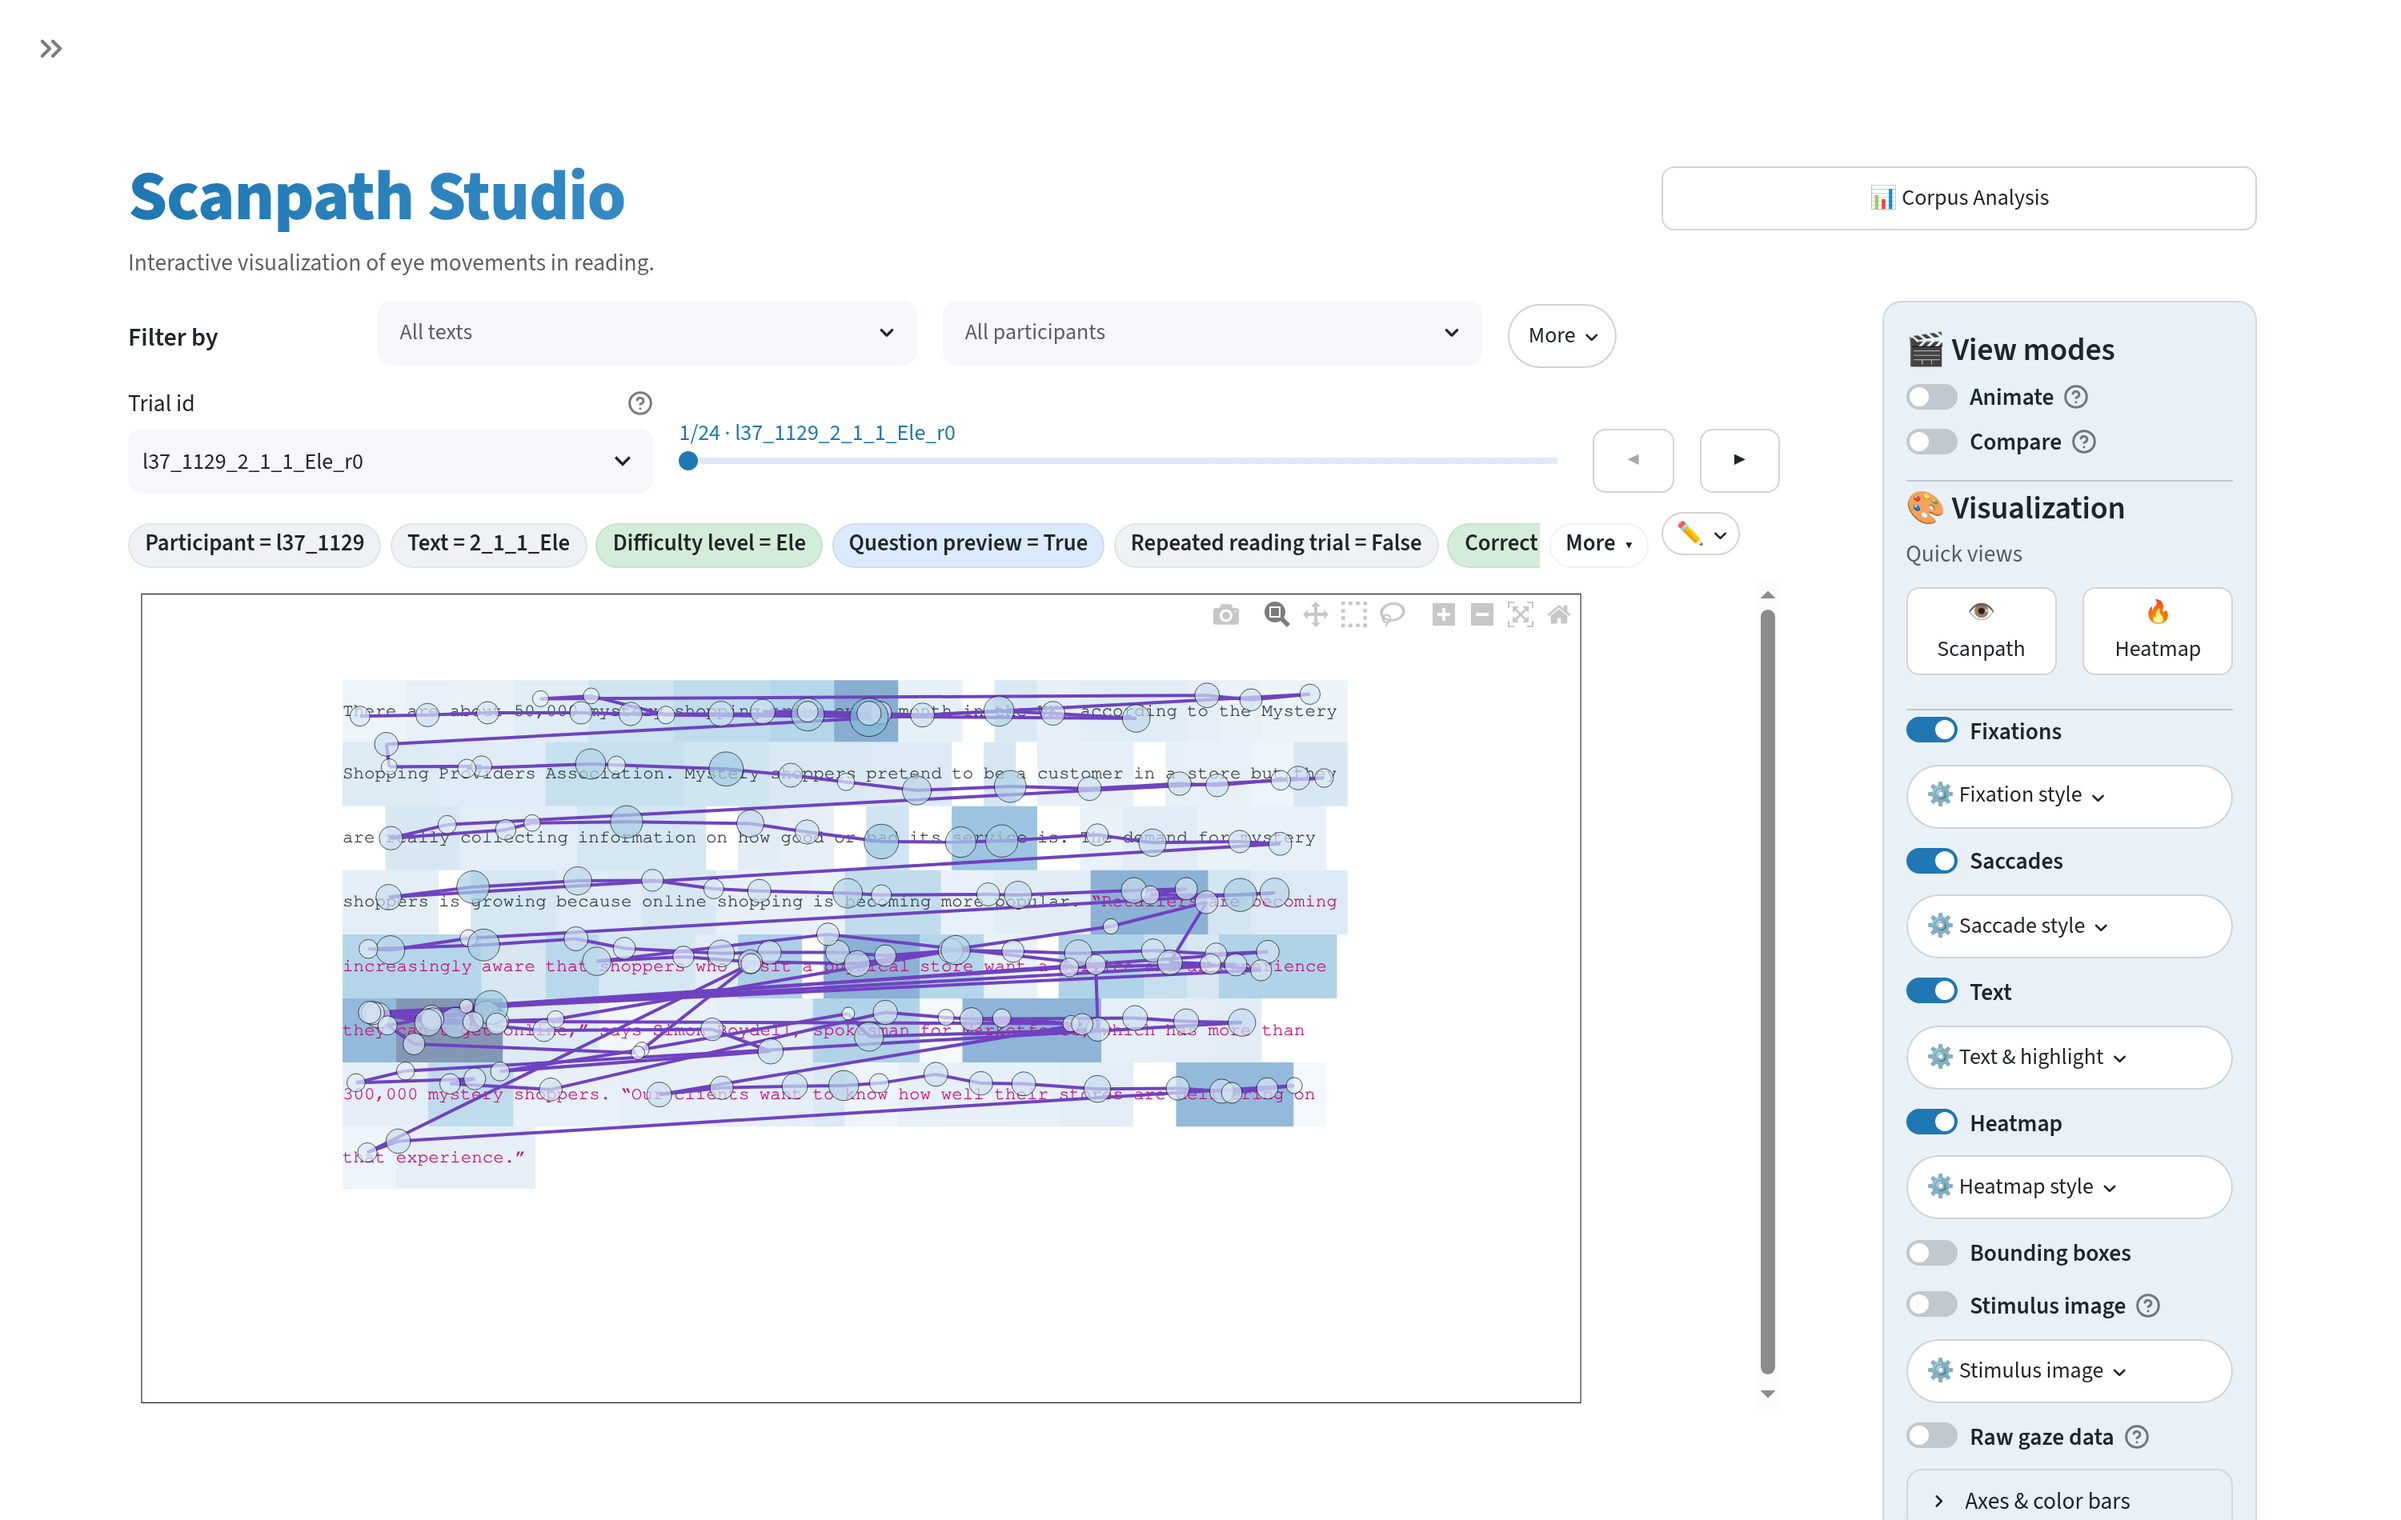
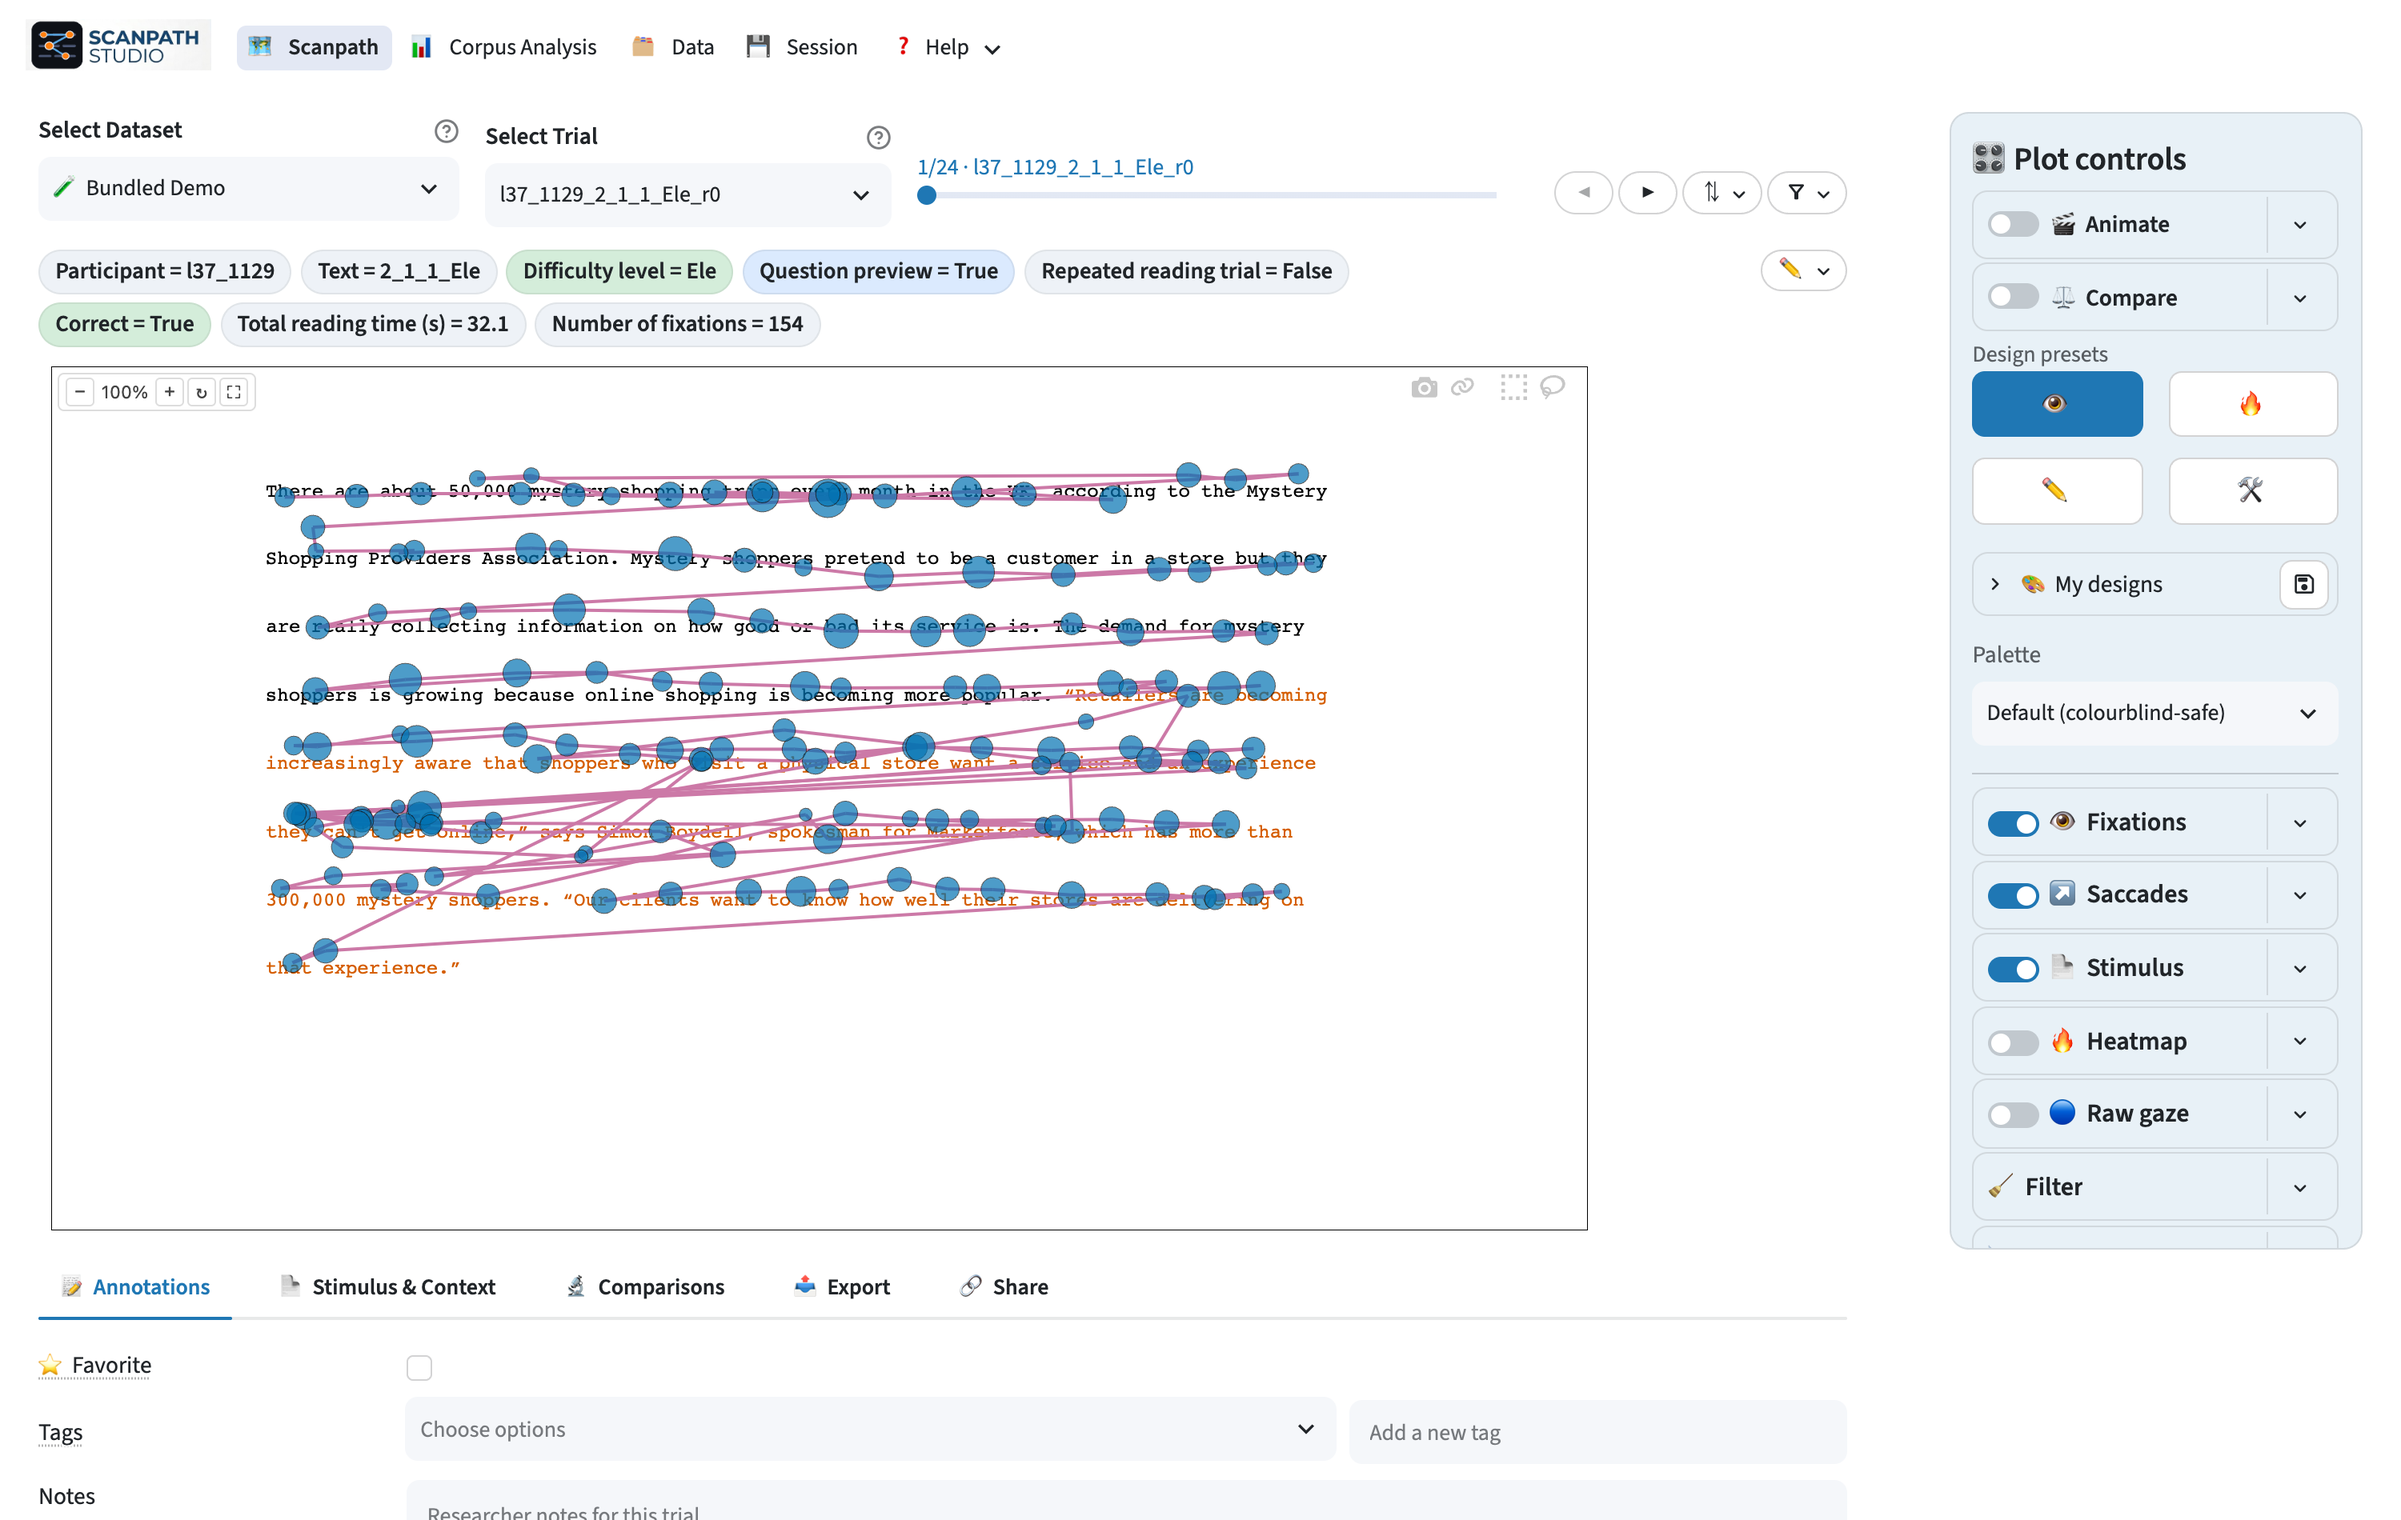
docs: re-capture the app screenshot from the current interface (ENG-70)

diff --git a/CHANGELOG.md b/CHANGELOG.md
@@ -161,7 +161,7 @@ and this project adheres to [Semantic Versioning](https://semver.org/spec/v2.0.0
 - **A `SECURITY.md` says how to report a vulnerability privately** (ENG-74) — the repository is public and GitHub linked a security policy that did not exist. It points at GitHub's private vulnerability reporting (with a no-details issue as the fallback until that setting is on), states that only the latest release is patched, and summarises what a deployment needs to know — no login, loopback by default, local folder access off on a network — with a link to `docs/security.md`.
 - **Words keep the interest areas the experiment defined** (BUG-83) — reverses BUG-11's half-space shift. On a corpus whose boxes tile the line — the OneStop demo's are each a word plus the following space — `measures.word_box_bounds` pulled every boundary back to mid-whitespace, which is not where the study put it: on the bundled demo it disagreed with EyeLink's own fixation→interest-area assignment on **7.4%** of fixations and clipped **15%** of the AN-12 landing fractions to exactly 1.0. Every consumer (assignment, out-of-text, the drawn outlines, the word heatmaps, the critical-span frame, drift correction, the model scanpaths) now takes `x .. x + width` as given, so the space after a word is that word's, as in EyeLink — and tests it half-open, `[x, x + width)`, so a fixation on an edge two boxes share goes to the box that starts there, which is where EyeLink put all 30 of the demo's (a closed test gave them to the earlier word). Agreement with EyeLink's assignment goes from 92.6% to 100% (3,208 of 3,208), and measures recomputed from coordinates alone now match the demo's `IA_*` columns exactly as well as the imported assignment does — FFD 1,780 of 1,780 fixated words (was 1,564), TFD 1,780 (was 1,419), RPD 1,779, regression-out 1,774; with the imported ids kept, as the app loads the demo, the measures follow EyeLink's assignment and do not move. The AN-12 curve is now an unclipped fraction of the box, so a landing on the trailing space reads just under 1 (none of the demo's is exactly 1.0 now), and the landing letter reads it as letter `n + 1`. Still corrected: BUG-27's letter scale (a tiling box is `len(text) + 1` advances wide) and BUG-65's centre `1 + n/2`, the letters' centre rather than the box's; labels and the linear-reading snap stay on the glyph run (`measures.word_glyph_span`) instead of moving half a space right into the middle of the box.
 - **A default figure's colour ranges are scaled to its own trial, as the API and `render` draw them** (VIZ-46) — the rail seeded both colour-range sliders (*Fixation color range*, the heatmap's *Color range*) to the whole loaded pool's span the moment they rendered, while `api.plot_scanpath` leaves `fixation_color_range` / `heatmap_range` at `None` and each builder scales to its own trial. So an app figure never matched a headless one — the word-box heatmap sat on the pool's longest *single* fixation while its boxes hold per-word dwell — and that seeded number rode every Share link, saved config, bulk export and code snippet as if it had been chosen. Per the call on ENG-63 the default is now per trial: the canonical `global_*` key exists only once a range is **explicit** (dragged, typed, *Auto range* unticked, or arriving on a link, config or saved design), and otherwise `None` reaches the builders — the API's own rule, not a copy of it, so a comparison shares one scale across A and B exactly as `compare_scanpaths` does. The slider draws a private view key beside a new **Auto range** checkbox, and its bounds stay the pool's span, so unticking *Auto* pins the old dataset-wide scale in one click. An explicit range is sticky across trials until *Auto* is ticked again; choosing another *Color fixations by* column puts the fixation range back to auto, since a range in ms clamped into another column's span means nothing. Old links and configs carry the span the rail used to seed and still open as that explicit range, and so does a localhost recovery cache written before this — tick *Auto range* (or ♻ Reset visualization) once. A config saved on auto (`null`, for a layer the saved figure drew) restores as auto, and applying a saved design or 🛠 Custom now takes a link's view params off the URL as the built-in presets always did, so a design saved on auto is not refilled with the link's range. Bulk export follows the rail, so an untouched one now exports each trial on its own scale — untick *Auto range* first for a shared one.
-- **The docs match the app they describe** (ENG-70) — a read-only audit of the docs site, the README, the contributor guides, the package map, the `.claude/` skills and agents, the GitHub templates and the API docstrings turned up about seventy statements the code no longer bears out, each re-verified against the code before it was changed; the text follows the code, and no behaviour changed. About a third would have led a reader wrong: `uv sync` alone installs neither the test nor the lint extra, CI resolves fresh rather than from `uv.lock`, `main` takes changes only through pull requests (so the release skill now tags the merged commit, which `publish.yml`'s tag check needs), the `/track` skill recommended a `--sync-board` that overwrites the live board with the archive's values, a missing `color_by` column raises rather than falling back, drift correction needs `SCANPATH_EXPERIMENTAL=1` on every surface, a JSON backup keeps no trial filters or Corpus Analysis choices, and the trial-metadata reader column is headless-only. The rest were stale or cosmetic: formats and vendors the loader reads, the rail's current layout, three views and a three-part wizard, OneStop and Provo's measured benchmark geometry, the network-served data-location note, the analyze / corpus flags (now in `docs/cli.md` and `--help`), reST roles the API page printed literally, the computation register's experimental-only consumers, and a dated status on each of `docs/security.md`'s findings — kept as an audit record, amended rather than rewritten. `.github/copilot-instructions.md` is now a pointer to `AGENTS.md` / `CLAUDE.md` instead of a second copy.
+- **The docs match the app they describe** (ENG-70) — a read-only audit of the docs site, the README, the contributor guides, the package map, the `.claude/` skills and agents, the GitHub templates and the API docstrings turned up about seventy statements the code no longer bears out, each re-verified against the code before it was changed; the text follows the code, and no behaviour changed. About a third would have led a reader wrong: `uv sync` alone installs neither the test nor the lint extra, CI resolves fresh rather than from `uv.lock`, `main` takes changes only through pull requests (so the release skill now tags the merged commit, which `publish.yml`'s tag check needs), the `/track` skill recommended a `--sync-board` that overwrites the live board with the archive's values, a missing `color_by` column raises rather than falling back, drift correction needs `SCANPATH_EXPERIMENTAL=1` on every surface, a JSON backup keeps no trial filters or Corpus Analysis choices, and the trial-metadata reader column is headless-only. The rest were stale or cosmetic: formats and vendors the loader reads, the rail's current layout, three views and a three-part wizard, OneStop and Provo's measured benchmark geometry, the network-served data-location note, the analyze / corpus flags (now in `docs/cli.md` and `--help`), reST roles the API page printed literally, the computation register's experimental-only consumers, and a dated status on each of `docs/security.md`'s findings — kept as an audit record, amended rather than rewritten. `.github/copilot-instructions.md` is now a pointer to `AGENTS.md` / `CLAUDE.md` instead of a second copy. The README and docs home screenshot (`docs/assets/app_screenshot.png`), which still showed the pre-UX-38 sidebar, is re-captured from the current app on the bundled demo.
 
 #### Fixed
 - **The figure draws offline** (ENG-64) — the scanpath, animation, comparison and stimulus figures loaded plotly.js from `cdn.plot.ly` on every draw, so they stayed blank without a network (the desktop app included) and every view contacted a third party. They now load the `plotly.min.js` that ships with the installed plotly package, served by the app's own Streamlit server: its folder is registered as a custom-component directory, so nothing is copied and the build always matches the figure JSON, on every launch path. Streamlit sends that file with no max-age, so a browser downloaded the whole script (1.5 MB compressed) again on every redraw; the page now keeps one copy and later figures reuse it. Figures downloaded as HTML still load plotly.js from the CDN when opened, because a saved file has no server behind it, and the animation download no longer calls itself self-contained.
